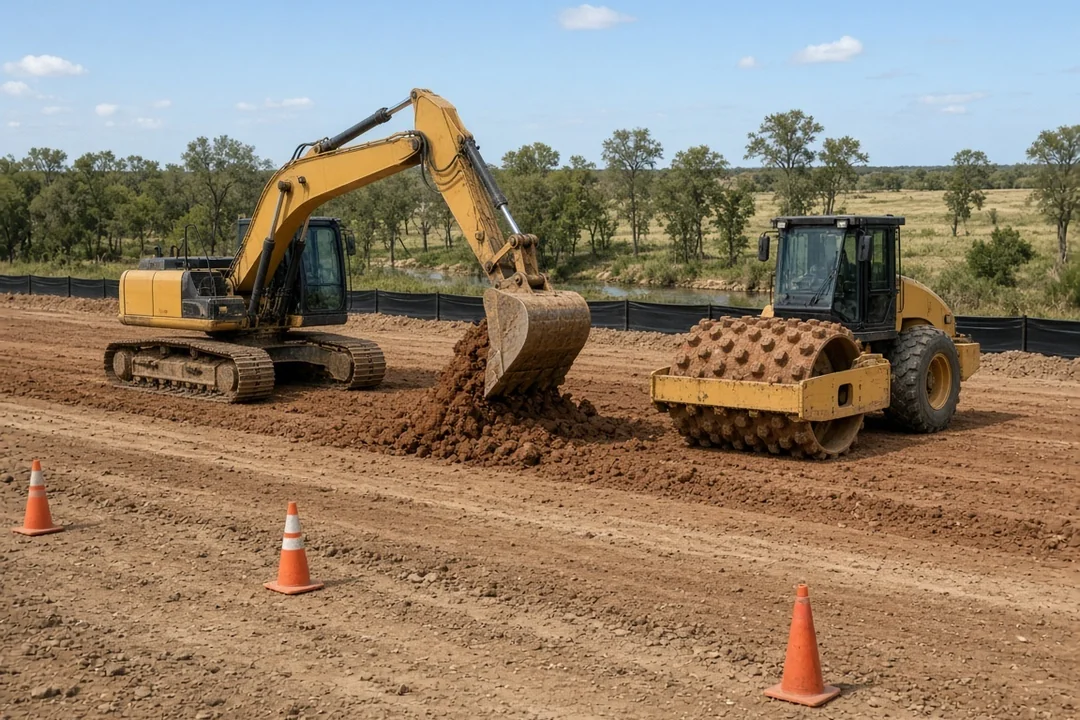
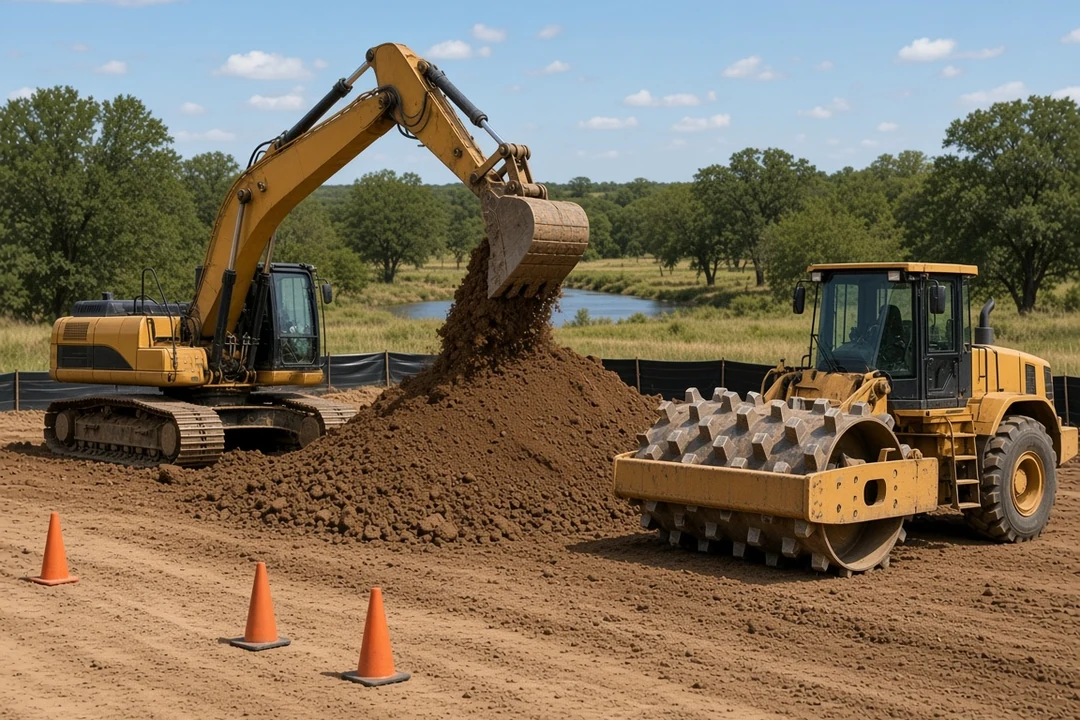
CRF: add Mesa, Tempe and Fort Collins heroes; regenerate Lancaster hero
1080x720 WebP images under 300 KB, wired as heroImage on the rebuilt launch pages. The Lancaster hero is a clean regeneration of the same scene so the excavator counterweight no longer shows a stamp-removal smudge.

diff --git a/app/lib/city-content.ts b/app/lib/city-content.ts
@@ -2852,6 +2852,10 @@ export const mesa: CityEntry = {
     { question: "What are construction noise hours in Mesa?", answer: "The noise code exempts construction and excavation from 6 a.m. to 8 p.m. on weekdays. On weekends the exemption applies only to work at a person's own residence; state law separately protects permitted early-morning and Saturday work from May 1 to October 15." },
     { question: "Does Mesa limit road work during the holidays?", answer: "Yes. From November 15 through January 1, restrictions that would slow traffic near major shopping areas and transportation hubs on arterial and collector streets are normally denied, including around downtown, Superstition Springs, Mesa Riverview and both Mesa airports." },
   ],
+  heroImage: {
+    src: "/images/locations/mesa-az-construction-equipment-rental.webp",
+    alt: "Wheel loader and excavator moving desert soil on a graded pad beside a steel building shell in Mesa, Arizona",
+  },
   guides: [sitePrepGuide, wheelLoaderGuideLink, trenchSafetyGuideLink, boomLiftGuide],
 };
 
@@ -2932,6 +2936,10 @@ export const tempe: CityEntry = {
     { question: "When does an equipment delivery need an oversize permit in Tempe?", answer: "When the load is over 80,000 pounds, 65 feet long, 8 feet 6 inches wide or 13 feet 6 inches high, or has a front or rear extension. Requests are due at least five working days ahead." },
     { question: "How long is a Tempe engineering permit good for?", answer: "One year from issuance. As-builts and an approved final inspection are due within that year, or the permit expires." },
   ],
+  heroImage: {
+    src: "/images/locations/tempe-az-construction-equipment-rental.webp",
+    alt: "Mini excavator digging a shallow trench beside a telehandler carrying lumber on a tight infill lot in Tempe, Arizona",
+  },
   guides: [compactGuide, scissorLiftGuideLink, telehandlerForkliftGuideLink, concreteGuideLink],
 };
 
@@ -3007,5 +3015,9 @@ export const fortCollins: CityEntry = {
     { question: "What are construction noise hours in Fort Collins?", answer: "Construction noise is allowed from 7 a.m. to 8 p.m. unless the City grants a variance." },
     { question: "Does construction debris have to be recycled in Fort Collins?", answer: "Aggregates and concrete, metal, untreated wood and cardboard from construction and demolition are on the City's required-recycling list, so plan separate loads or containers for them." },
   ],
+  heroImage: {
+    src: "/images/locations/fort-collins-co-construction-equipment-rental.webp",
+    alt: "Mini excavator and compact track loader beside sorted concrete and lumber piles on a jobsite in Fort Collins, Colorado",
+  },
   guides: [sitePrepGuide, compactGuide, wheelLoaderGuideLink, trenchSafetyGuideLink],
 };

diff --git a/references/hero-image-style.md b/references/hero-image-style.md
@@ -1,6 +1,6 @@
 # CRF Hero Image Style
 
-Last updated: 2026-11-12 (standard unchanged; Batch 8 / Resource Run 7 heroes shipped)
+Last updated: 2026-11-13 (standard unchanged; Mesa, Tempe, Fort Collins heroes added; Lancaster hero regenerated)
 
 **Approval status:** Unattended mode (2026-10-05) allows publishing heroes that pass this standard without per-image approval. Batch 4 city and Resource Run 3 guide heroes are not shipped yet — GenerateImage was unavailable to the Grok Bot executor on 2026-10-15; regenerate and add `heroImage` when compliant WebPs are ready.
 
@@ -122,3 +122,17 @@ Friday QA: zoom-check all seven for faint decals; generator control panel shows 
 | choosing-concrete-equipment | public/images/resources/choosing-concrete-equipment.webp | 1080x720, 102 KB | Towable drum mixer on dirt beside a formed slab holding an idle walk-behind power trowel and a cut-off saw on a board, no people | Towable drum mixer beside a walk-behind power trowel and a cut-off saw on a formed concrete slab |
 
 Faint marks removed before encoding: a small model-number stamp on the Lancaster excavator counterweight, a logo badge on the Hurst skid-steer rear arm, and faint numerals on the Farmers Branch scissor-lift platform. Duncanville plate-compactor and concrete-saw engines are generic; no readable wordmarks at 1080×720.
+
+
+### Launch-city heroes + Lancaster regen (2026-11-13, unattended; generated with GenerateImage, 4:3 center-cropped with slight downward bias to 3:2, checked by eye)
+
+Arizona and Colorado paths use `-az-` and `-co-` instead of the Texas `-tx-` pattern.
+
+| Slug | File | Size | Scene | Alt text |
+|---|---|---|---|---|
+| mesa | public/images/locations/mesa-az-construction-equipment-rental.webp | 1080x720, 200 KB | Yellow wheel loader and excavator moving pale desert soil on a large graded pad beside a steel building shell, palo verde trees, distant mountains, one small worker in hi-vis, late-afternoon light | Wheel loader and excavator moving desert soil on a graded pad beside a steel building shell in Mesa, Arizona |
+| tempe | public/images/locations/tempe-az-construction-equipment-rental.webp | 1080x720, 201 KB | Yellow mini excavator digging a shallow utility trench, telehandler carrying lumber on forks, tight infill lot between tan commercial buildings, palo verde, sidewalk and cones, one small worker | Mini excavator digging a shallow trench beside a telehandler carrying lumber on a tight infill lot in Tempe, Arizona |
+| fort-collins | public/images/locations/fort-collins-co-construction-equipment-rental.webp | 1080x720, 195 KB | Yellow mini excavator and compact track loader beside separate piles of broken concrete and lumber, Front Range foothills, evergreens, one small worker in hi-vis, cool daylight | Mini excavator and compact track loader beside sorted concrete and lumber piles on a jobsite in Fort Collins, Colorado |
+| lancaster (regen) | public/images/locations/lancaster-tx-construction-equipment-rental.webp | 1080x720, 205 KB | Same scene as the 2026-11-12 hero (excavator placing clay fill, padfoot roller, silt fence, tree-lined creek, cones) regenerated so the counterweight is clean unmarked paint; no people | Excavator placing clay fill beside a padfoot roller on a graded tract near a tree-lined creek in Lancaster, Texas |
+
+A first Lancaster attempt was discarded (invented "DEAPSOOT" lettering on a smooth-drum roller). The shipped image has a padfoot drum and no lettering. Faint model stamps on the excavator house were clone-stamped from adjacent yellow paint before encoding. The Tempe telehandler door shows ordinary hardware (handles), not logos, at 1080×720.

diff --git a/references/content-strategy.md b/references/content-strategy.md
@@ -1,6 +1,6 @@
 # CRF Content Strategy
 
-Last updated: 2026-11-13 (launch-city rebuilds: Mesa, Tempe, Fort Collins)
+Last updated: 2026-11-13 (Mesa, Tempe, Fort Collins heroes added; Lancaster hero regenerated)
 
 ## Goal
 
@@ -26,9 +26,9 @@ The 15 launch cities (2026-09-27) used the shared simple template and scored as 
 
 | City | Status |
 |---|---|
-| Mesa | Rebuilt 2026-11-13 (pavement-cut age rules, City gas check-and-wrap, TTC peak hours + Nov 15–Jan 1 moratorium, noise 6-12-6(F), Gateway Area) |
-| Tempe | Rebuilt 2026-11-13 (ROW permit types, permit life/as-builts, sec. 20-8 hours + off-hours authorization, barricading/haul/OS-OW permits, pavement surcharge, Valley Metro track access) |
-| Fort Collins | Rebuilt 2026-11-13 (excavation permit + ROW contractor license, encroachment/stockpiling permits, DCP, noise 7–8, dust rules, required C&D recycling) |
+| Mesa | Rebuilt 2026-11-13 (pavement-cut age rules, City gas check-and-wrap, TTC peak hours + Nov 15–Jan 1 moratorium, noise 6-12-6(F), Gateway Area); hero added 2026-11-13 |
+| Tempe | Rebuilt 2026-11-13 (ROW permit types, permit life/as-builts, sec. 20-8 hours + off-hours authorization, barricading/haul/OS-OW permits, pavement surcharge, Valley Metro track access); hero added 2026-11-13 |
+| Fort Collins | Rebuilt 2026-11-13 (excavation permit + ROW contractor license, encroachment/stockpiling permits, DCP, noise 7–8, dust rules, required C&D recycling); hero added 2026-11-13 |
 | Greeley, Austin, San Antonio, Houston, Fort Worth, Dallas, Phoenix, Tucson, Scottsdale, Denver, Colorado Springs, Grand Junction | Pending (simple template) |
 
 Run the similarity gate before each rebuild ships; record before/after in `published-pages.md`.

diff --git a/references/published-pages.md b/references/published-pages.md
@@ -487,7 +487,7 @@ Lancaster 1,499; Waxahachie 1,371; Duncanville 1,380; Hurst 1,306; Farmers Branc
 
 ## Launch-city rebuilds — 2026-11-13 (Friday QA, uniqueness rule)
 
-Mesa, Tempe and Fort Collins moved from the shared simple template to the rich layout (`localIntro` etc. in `city-content.ts`; inline entries in `locations.ts` replaced). Heroes deferred (no compliant image generator available to the Friday run); pages render the navy header like the other launch cities.
+Mesa, Tempe and Fort Collins moved from the shared simple template to the rich layout (`localIntro` etc. in `city-content.ts`; inline entries in `locations.ts` replaced). Heroes added 2026-11-13 (GenerateImage, 1080×720 WebP; Lancaster hero also regenerated to remove a faint counterweight smudge). See hero-image-style.md.
 
 Similarity gate (`/workspace/uniqueness-audit/scripts`, TF-IDF cosine / 5-gram Jaccard / % sentence words repeated on 3+ city pages, after city/state normalization):
 | Page | Before (cosine, closest, Jaccard, repeated) | After |
